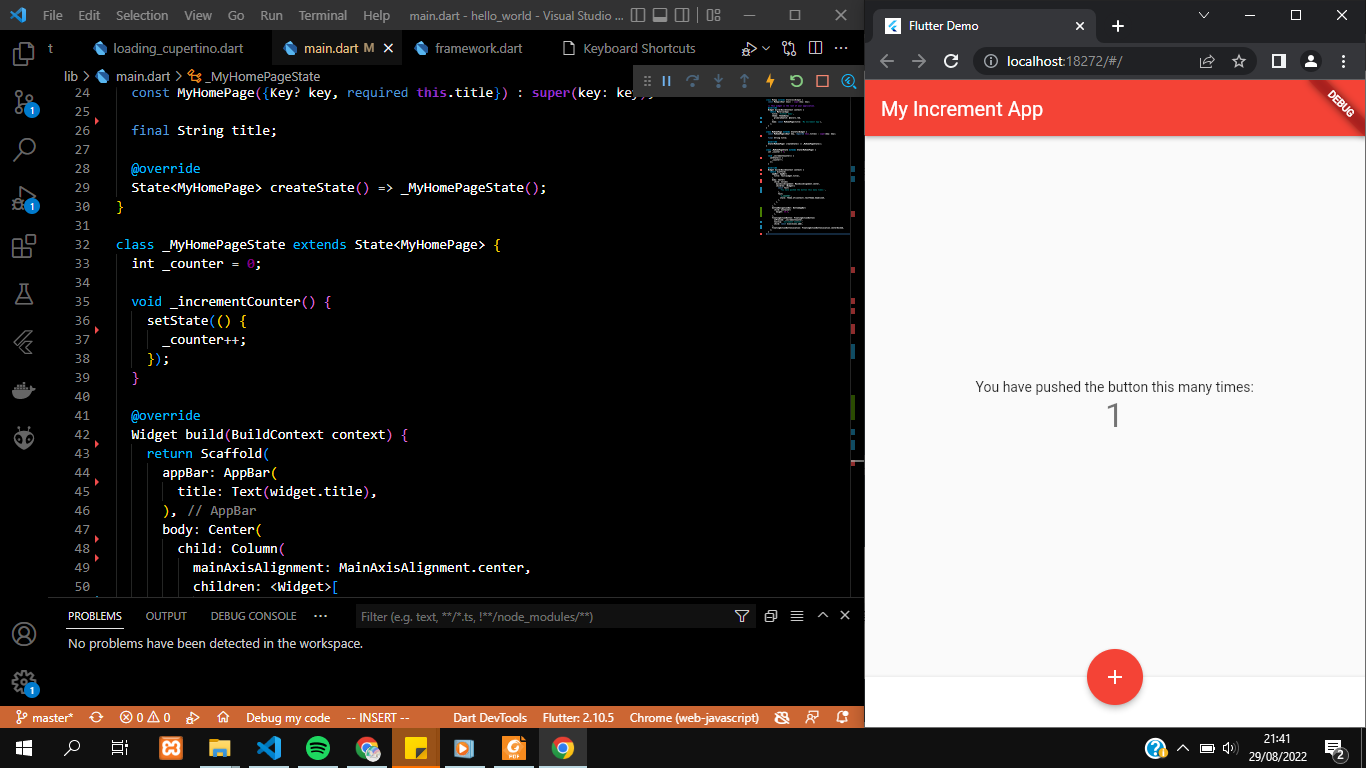
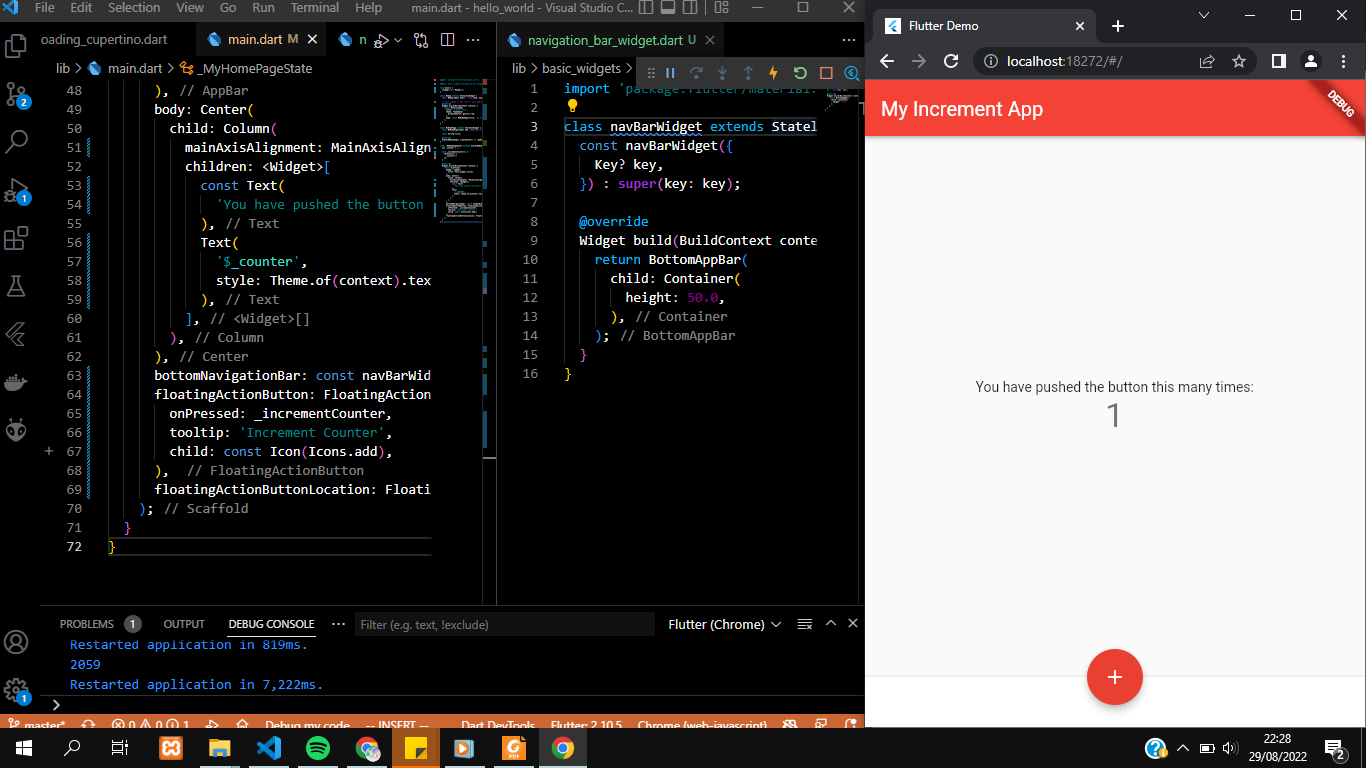
praktikum 4, update scaffold widget

diff --git a/lib/main.dart b/lib/main.dart
@@ -1,18 +1,23 @@
-import 'dart:async';
 import 'package:flutter/material.dart';
 
-import 'basic_widgets/text_widget.dart';
+import 'basic_widgets/navigation_bar_widget.dart';
 
-void main() => runApp(const MyApp());
+void main() {
+  runApp(const MyApp());
+}
 
 class MyApp extends StatelessWidget {
   const MyApp({Key? key}) : super(key: key);
 
+  // This widget is the root of your application.
   @override
   Widget build(BuildContext context) {
-    return const MaterialApp(
-      title: 'Contoh Date Picker',
-      home: MyHomePage(title: 'Contoh Date Picker'),
+    return MaterialApp(
+      title: 'Flutter Demo',
+      theme: ThemeData(
+        primarySwatch: Colors.red,
+      ),
+      home: const MyHomePage(title: 'My Increment App'),
     );
   }
 }
@@ -23,26 +28,16 @@ class MyHomePage extends StatefulWidget {
   final String title;
 
   @override
-  _MyHomePageState createState() => _MyHomePageState();
+  State<MyHomePage> createState() => _MyHomePageState();
 }
 
 class _MyHomePageState extends State<MyHomePage> {
-  // Variable/State untuk mengambil tanggal
-  DateTime selectedDate = DateTime.now();
+  int _counter = 0;
 
-  //  Initial SelectDate FLutter
-  Future<void> _selectDate(BuildContext context) async {
-    // Initial DateTime FIinal Picked
-    final DateTime? picked = await showDatePicker(
-        context: context,
-        initialDate: selectedDate,
-        firstDate: DateTime(2015, 8),
-        lastDate: DateTime(2101));
-    if (picked != null && picked != selectedDate) {
-      setState(() {
-        selectedDate = picked;
-      });
-    }
+  void _incrementCounter() {
+    setState(() {
+      _counter++;
+    });
   }
 
   @override
@@ -53,27 +48,25 @@ class _MyHomePageState extends State<MyHomePage> {
       ),
       body: Center(
         child: Column(
-          mainAxisSize: MainAxisSize.min,
+          mainAxisAlignment: MainAxisAlignment.center,
           children: <Widget>[
-            TextWidget(selectedDate: selectedDate),
-            const SizedBox(
-              height: 20.0,
+            const Text(
+              'You have pushed the button this many times:',
             ),
-            elevatedButtonWidget(context),
+            Text(
+              '$_counter',
+              style: Theme.of(context).textTheme.headline4,
+            ),
           ],
         ),
       ),
-    );
-  }
-
-  ElevatedButton elevatedButtonWidget(BuildContext context) {
-    return ElevatedButton(
-      onPressed: () => {
-        _selectDate(context),
-        // ignore: avoid_print
-        print(selectedDate.day + selectedDate.month + selectedDate.year)
-      },
-      child: const Text('Pilih Tanggal'),
+      bottomNavigationBar: const navBarWidget(),
+      floatingActionButton: FloatingActionButton(
+        onPressed: _incrementCounter,
+        tooltip: 'Increment Counter',
+        child: const Icon(Icons.add),
+      ), 
+      floatingActionButtonLocation: FloatingActionButtonLocation.centerDocked,
     );
   }
 }

diff --git a/lib/basic_widgets/navigation_bar_widget.dart b/lib/basic_widgets/navigation_bar_widget.dart
@@ -1,0 +1,16 @@
+import 'package:flutter/material.dart';
+
+class navBarWidget extends StatelessWidget {
+  const navBarWidget({
+    Key? key,
+  }) : super(key: key);
+
+  @override
+  Widget build(BuildContext context) {
+    return BottomAppBar(
+      child: Container(
+        height: 50.0,
+      ),
+    );
+  }
+}
